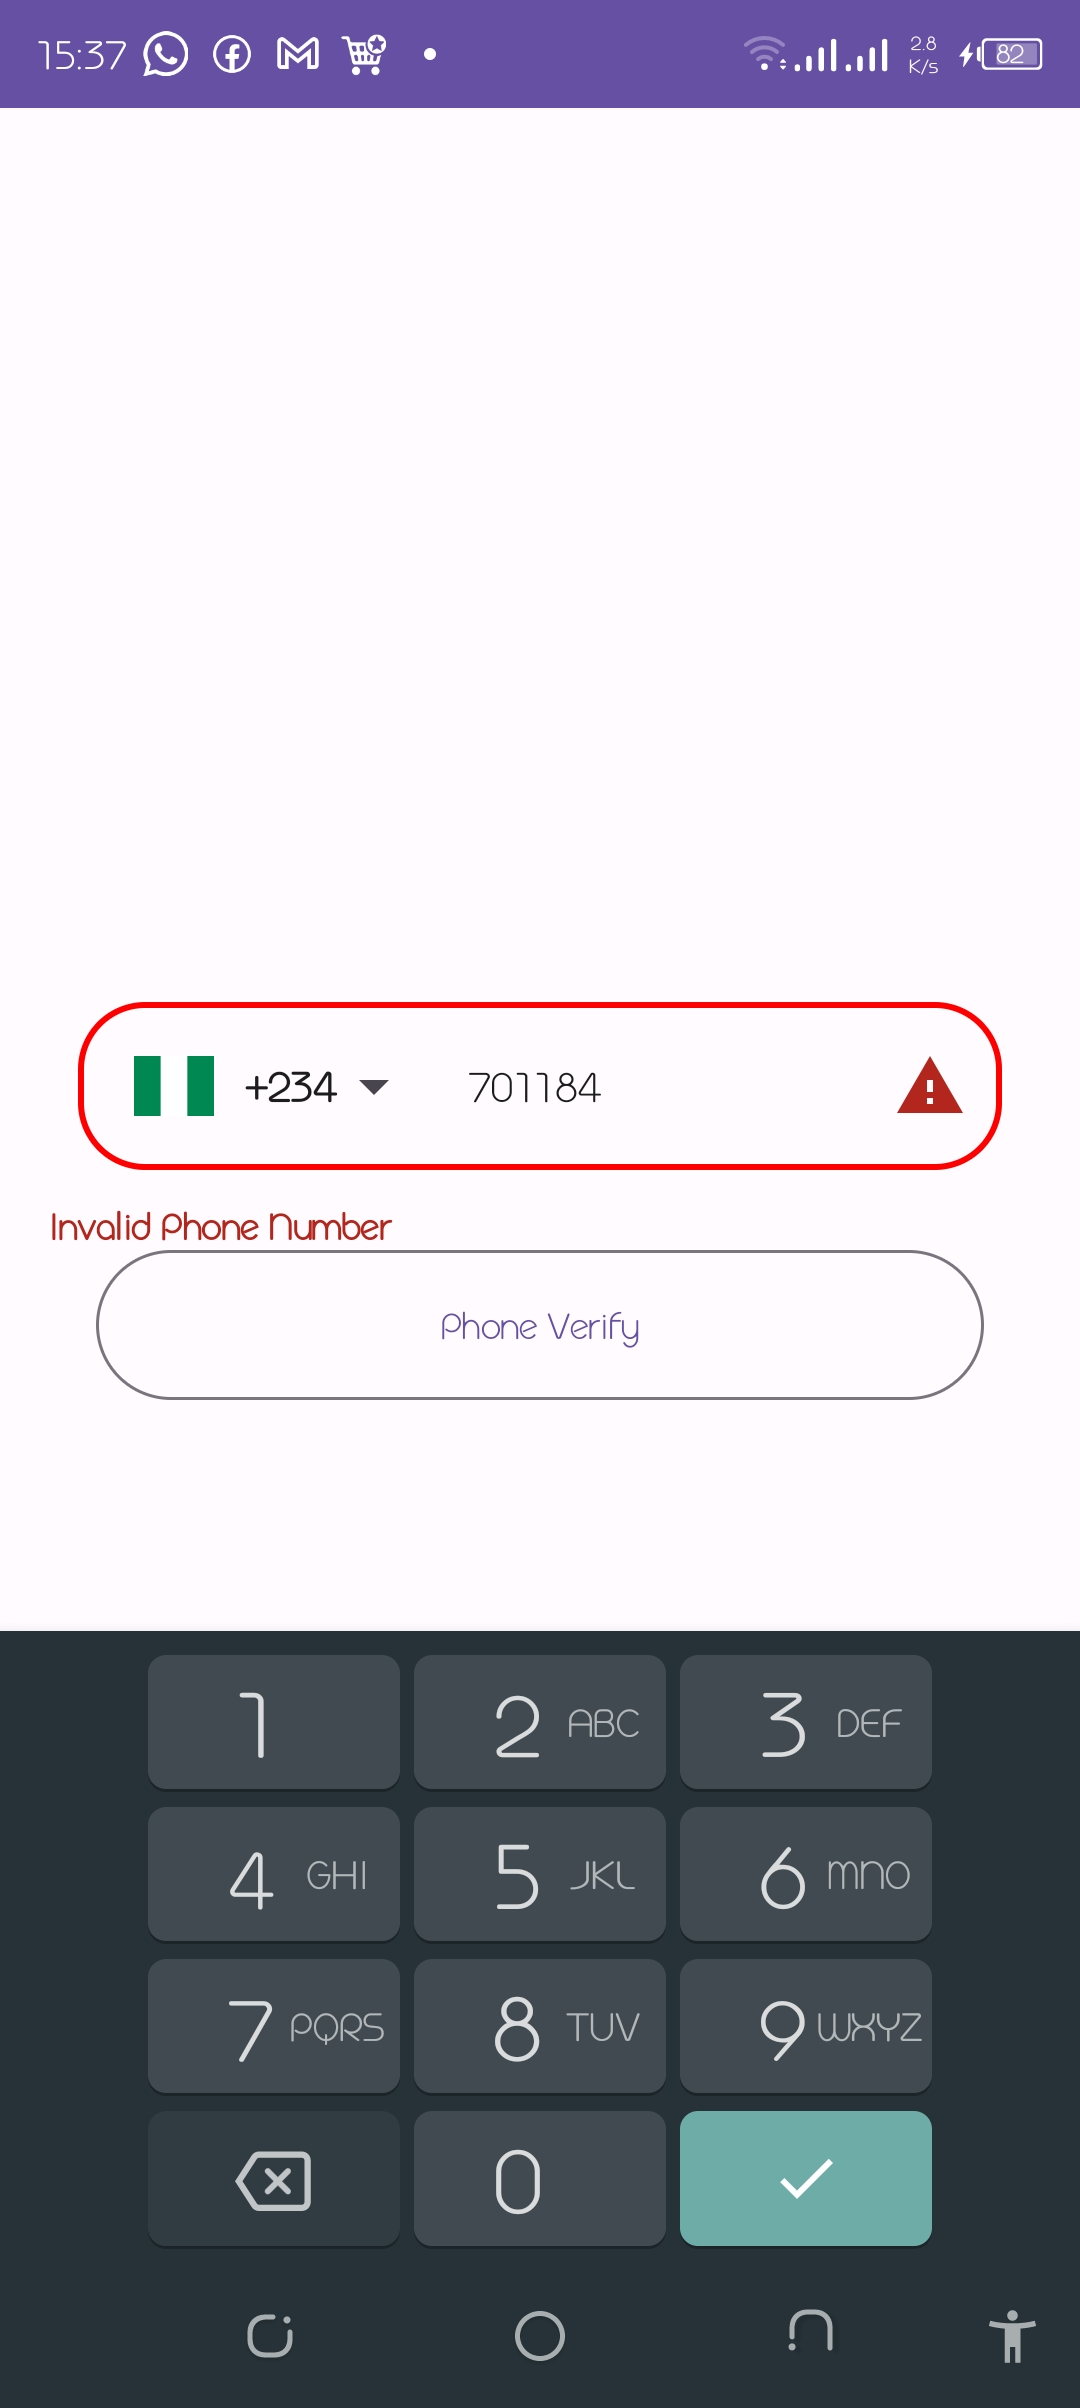
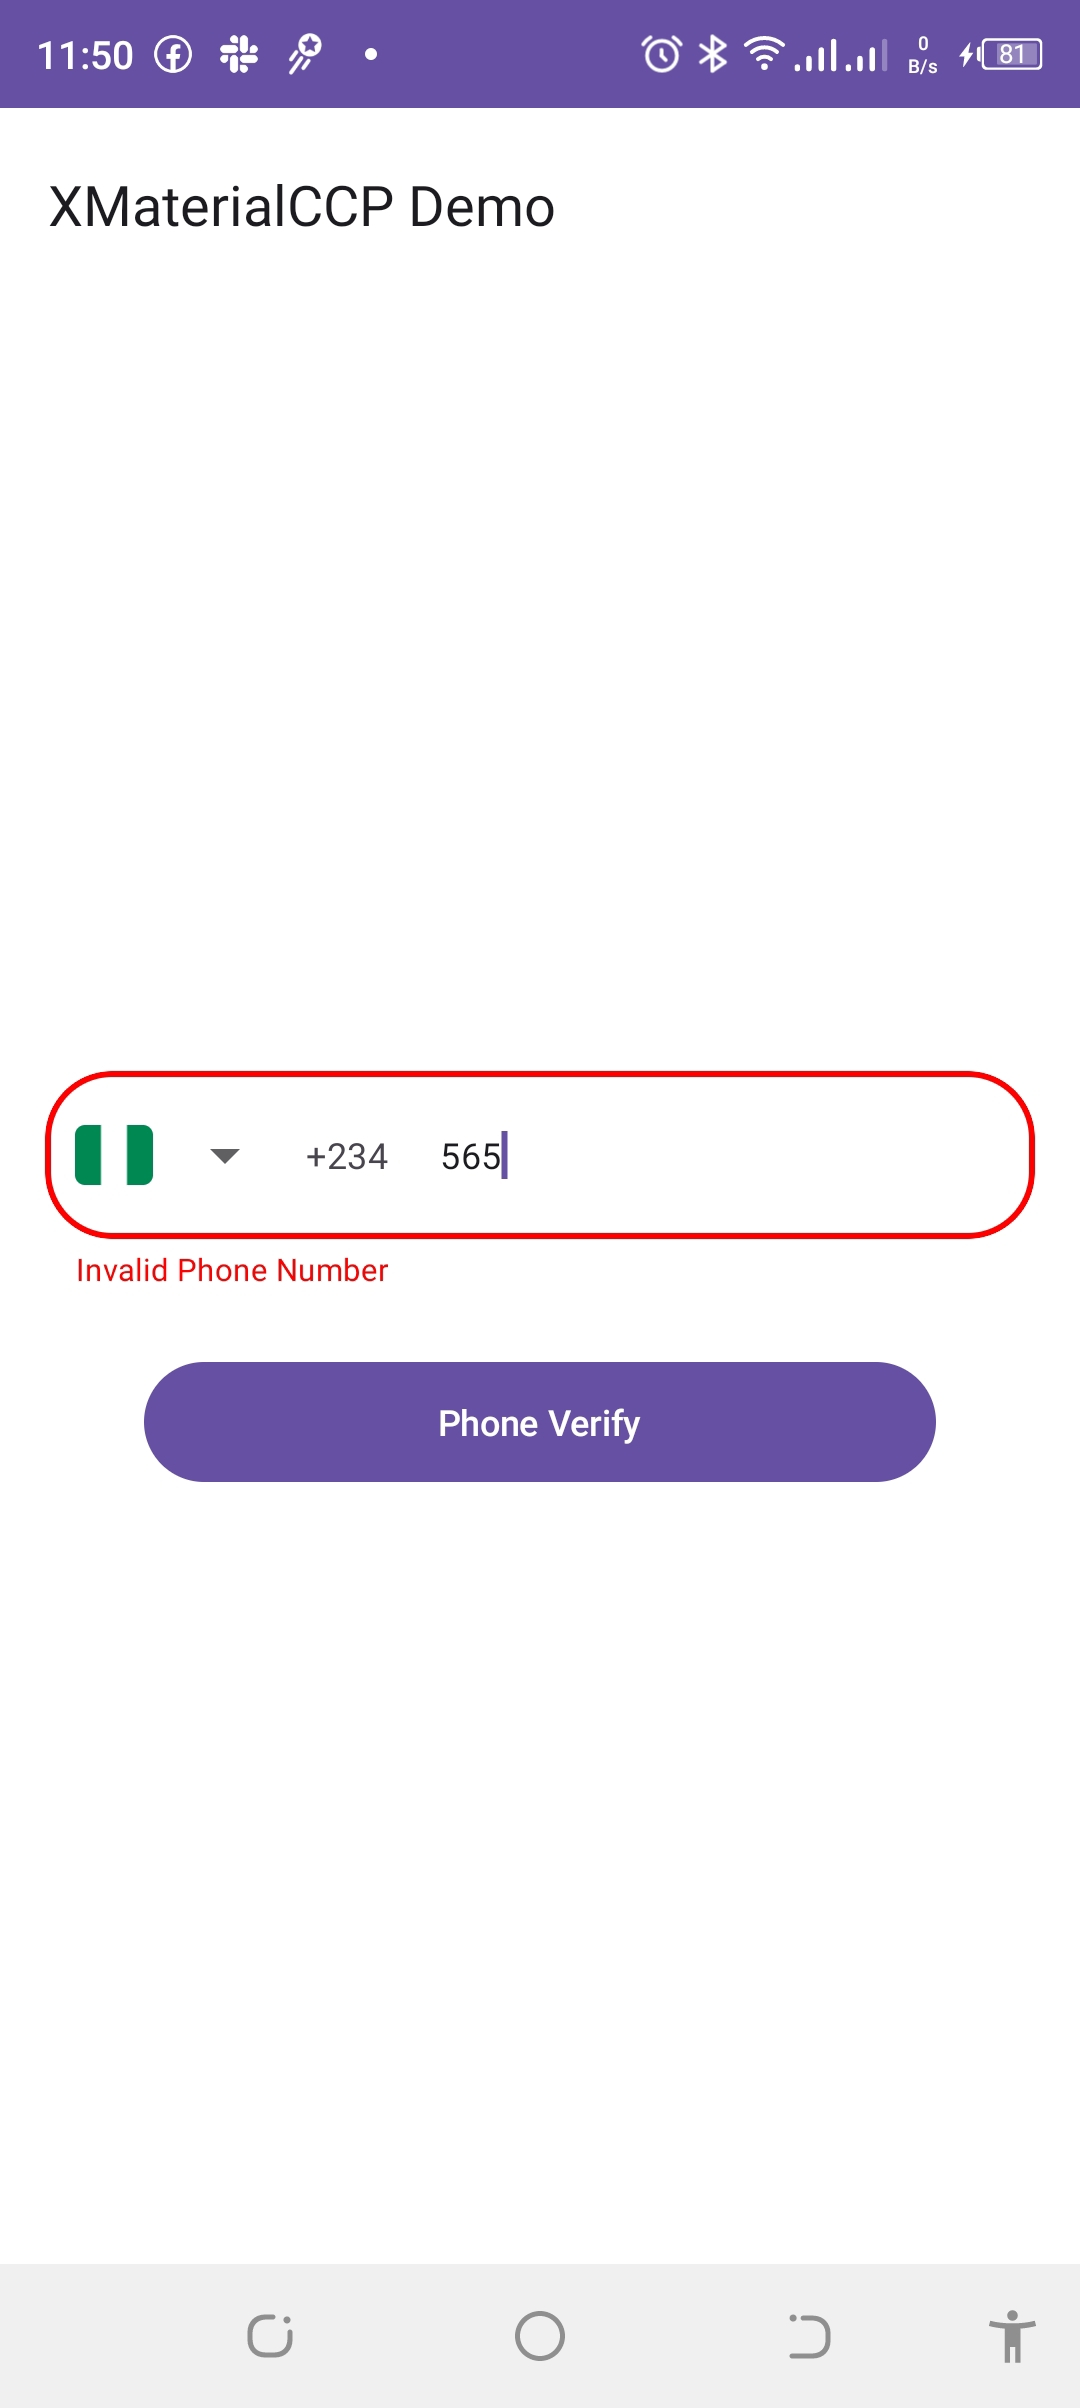
nin3

diff --git a/app/src/main/java/com/simon/materialCCPExample/MainActivity.kt b/app/src/main/java/com/simon/materialCCPExample/MainActivity.kt
@@ -3,15 +3,19 @@ package com.simon.materialCCPExample
 import android.os.Bundle
 import androidx.activity.ComponentActivity
 import androidx.activity.compose.setContent
+import androidx.compose.foundation.background
 import androidx.compose.foundation.layout.*
 import androidx.compose.foundation.rememberScrollState
 import androidx.compose.foundation.shape.RoundedCornerShape
 import androidx.compose.foundation.verticalScroll
 import androidx.compose.material3.Button
+import androidx.compose.material3.ExperimentalMaterial3Api
 import androidx.compose.material3.MaterialTheme
 import androidx.compose.material3.OutlinedButton
+import androidx.compose.material3.Scaffold
 import androidx.compose.material3.Surface
 import androidx.compose.material3.Text
+import androidx.compose.material3.TopAppBar
 import androidx.compose.runtime.*
 import androidx.compose.runtime.saveable.rememberSaveable
 import androidx.compose.ui.Alignment
@@ -31,16 +35,27 @@ import com.simon.xmaterialccp.data.utils.getLibCountries
 
 
 class MainActivity : ComponentActivity() {
+    @OptIn(ExperimentalMaterial3Api::class)
     override fun onCreate(savedInstanceState: Bundle?) {
         super.onCreate(savedInstanceState)
         setContent {
             MaterialCCPExampleTheme {
                 // A surface container using the 'background' color from the theme
-                Surface(
-                    modifier = Modifier.fillMaxSize(),
-                    color = MaterialTheme.colorScheme.background
+                Scaffold(
+                    modifier = Modifier
+                        .fillMaxSize()
+                        .background(Color.White),
+                    topBar = {
+                        TopAppBar(title = { Text(text = "XMaterialCCP Demo") })
+                    }
                 ) {
-                    SelectCountryBody()
+                    SelectCountryBody(
+                        Modifier
+                            .padding(top = it.calculateTopPadding())
+                            .fillMaxSize()
+                            .padding(15.dp)
+                            .verticalScroll(rememberScrollState())
+                    )
                 }
             }
         }
@@ -48,11 +63,9 @@ class MainActivity : ComponentActivity() {
 }
 
 @Composable
-fun SelectCountryBody() {
+fun SelectCountryBody(modifier: Modifier) {
     Column(
-        modifier = Modifier
-            .verticalScroll(rememberScrollState())
-            .fillMaxSize(),
+        modifier = modifier,
         verticalArrangement = Arrangement.Center,
         horizontalAlignment = Alignment.CenterHorizontally
     ) {
@@ -69,83 +82,68 @@ fun SelectCountryWithCountryCode() {
     val phoneNumber = rememberSaveable { mutableStateOf("") }
     var defaultLang by rememberSaveable { mutableStateOf(getDefaultLangCode(context)) }
     var isValidPhone by remember { mutableStateOf(true) }
-    Column(
-        modifier = Modifier.padding(16.dp)
+
+    MaterialCountryCodePicker(
+        pickedCountry = {
+            phoneCode = it.countryPhoneCode
+            defaultLang = it.countryCode
+        },
+        defaultCountry = getLibCountries().single { it.countryCode == defaultLang },
+        error = !isValidPhone,
+        text = phoneNumber.value,
+        onValueChange = { phoneNumber.value = it },
+        searchFieldPlaceHolderTextStyle = MaterialTheme.typography.bodyMedium,
+        searchFieldTextStyle = MaterialTheme.typography.bodyMedium,
+        phonenumbertextstyle = MaterialTheme.typography.bodyMedium,
+        countrytextstyle = MaterialTheme.typography.bodyMedium,
+        countrycodetextstyle = MaterialTheme.typography.bodyMedium,
+        showErrorText = true,
+        showCountryCodeInDIalog = true,
+        showDropDownAfterFlag = true,
+        textFieldShapeCornerRadiusInPercentage = 40,
+        searchFieldShapeCornerRadiusInPercentage = 40,
+        appbartitleStyle = MaterialTheme.typography.titleLarge,
+        countryItemBgShape = RoundedCornerShape(5.dp),
+        showCountryFlag = true,
+        showCountryCode = true,
+        flagShape = RoundedCornerShape(10f),
+        isEnabled = true,
+        showErrorIcon = false,
+        colors = ccpDefaultColors(
+            primaryColor = MaterialTheme.colorScheme.primary,
+            errorColor = MaterialTheme.colorScheme.error,
+            backgroundColor = MaterialTheme.colorScheme.background,
+            surfaceColor = MaterialTheme.colorScheme.surface,
+            outlineColor = MaterialTheme.colorScheme.outline,
+            disabledOutlineColor = MaterialTheme.colorScheme.outline.copy(0.1f),
+            unfocusedOutlineColor = MaterialTheme.colorScheme.onBackground.copy(0.3f),
+            textColor = MaterialTheme.colorScheme.onBackground.copy(0.7f),
+            cursorColor = MaterialTheme.colorScheme.primary,
+            topAppBarColor = MaterialTheme.colorScheme.surface,
+            countryItemBgColor = MaterialTheme.colorScheme.surface,
+            searchFieldBgColor = MaterialTheme.colorScheme.surface,
+            dialogNavIconColor = MaterialTheme.colorScheme.onBackground.copy(0.7f),
+            dropDownIconTint = MaterialTheme.colorScheme.onBackground.copy(0.7f)
+
+        ),
+        errorTextStyle = MaterialTheme.typography.bodySmall,
+        errorModifier = Modifier.padding(top = 3.dp, start = 10.dp)
+    )
+
+    val fullPhoneNumber = "$phoneCode${phoneNumber.value}"
+    val checkPhoneNumber = checkPhoneNumber(
+        phone = phoneNumber.value,
+        fullPhoneNumber = fullPhoneNumber,
+        countryCode = defaultLang
+    )
+    Spacer(modifier = Modifier.height(20.dp))
+    Button(
+        onClick = {
+            isValidPhone = checkPhoneNumber
+        },
+        modifier = Modifier
+            .fillMaxWidth(0.8f)
     ) {
-
-        MaterialCountryCodePicker(
-            pickedCountry = {
-                phoneCode = it.countryPhoneCode
-                defaultLang = it.countryCode
-            },
-            defaultCountry = getLibCountries().single { it.countryCode == defaultLang },
-            error = !isValidPhone,
-            text = phoneNumber.value,
-            onValueChange = { phoneNumber.value = it },
-            searchFieldPlaceHolderTextStyle = MaterialTheme.typography.bodyMedium,
-            searchFieldTextStyle = MaterialTheme.typography.bodyMedium,
-            phonenumbertextstyle = MaterialTheme.typography.bodyMedium,
-            countrytextstyle = MaterialTheme.typography.bodyMedium,
-            countrycodetextstyle = MaterialTheme.typography.bodyMedium,
-            showErrorText = true,
-            showCountryCodeInDIalog = true,
-            showDropDownAfterFlag = true,
-            textFieldShapeCornerRadiusInPercentage = 40,
-            searchFieldShapeCornerRadiusInPercentage = 40,
-            appbartitleStyle = MaterialTheme.typography.titleLarge,
-            countryItemBgShape = RoundedCornerShape(5.dp),
-            showCountryFlag = true,
-            showCountryCode = true,
-            flagShape = RoundedCornerShape(10f),
-            isEnabled = true,
-            showErrorIcon = false,
-            colors = ccpDefaultColors(
-                primaryColor = MaterialTheme.colorScheme.primary,
-                errorColor = MaterialTheme.colorScheme.error,
-                backgroundColor = MaterialTheme.colorScheme.background,
-                surfaceColor = MaterialTheme.colorScheme.surface,
-                outlineColor = MaterialTheme.colorScheme.outline,
-                disabledOutlineColor = MaterialTheme.colorScheme.outline.copy(0.1f),
-                unfocusedOutlineColor = MaterialTheme.colorScheme.onBackground.copy(0.3f),
-                textColor = MaterialTheme.colorScheme.onBackground.copy(0.7f),
-                cursorColor = MaterialTheme.colorScheme.primary,
-                topAppBarColor = MaterialTheme.colorScheme.surface,
-                countryItemBgColor = MaterialTheme.colorScheme.surface,
-                searchFieldBgColor = MaterialTheme.colorScheme.surface,
-                dialogNavIconColor = MaterialTheme.colorScheme.onBackground.copy(0.7f),
-                dropDownIconTint = MaterialTheme.colorScheme.onBackground.copy(0.7f)
-
-            )
-        )
-
-        val fullPhoneNumber = "$phoneCode${phoneNumber.value}"
-        val checkPhoneNumber = checkPhoneNumber(
-            phone = phoneNumber.value,
-            fullPhoneNumber = fullPhoneNumber,
-            countryCode = defaultLang
-        )
-        Button(
-            onClick = {
-                isValidPhone = checkPhoneNumber
-            },
-            modifier = Modifier
-                .fillMaxWidth()
-        ) {
-            Text(text = "Phone Verify")
-        }
-    }
-}
-
-
-@Composable
-fun Greeting(name: String) {
-    Text(text = "Hello $name!")
-}
-
-@Preview(showBackground = true)
-@Composable
-fun DefaultPreview() {
-    MaterialCCPExampleTheme {
-        Greeting("Android")
+        Text(text = "Phone Verify")
     }
 }

diff --git a/xmaterialccp/src/main/java/com/simon/xmaterialccp/component/MaterialCountryCodePicker.kt b/xmaterialccp/src/main/java/com/simon/xmaterialccp/component/MaterialCountryCodePicker.kt
@@ -65,6 +65,8 @@ import com.simon.xmaterialccp.data.CCPColors
  * @param flagShape to customized the shape of the flag
  * @param showErrorIcon whether to show the error icon
  * @param errorIcon the drawable resource file to use as error icon
+ * @param errorText the text to show when an invalid number is entered
+ * @param errorModifier modifier applied to the error text
  * @param colors the colors of the picker, customized the look and feel of the picker
  */
 @OptIn(ExperimentalMaterial3Api::class, ExperimentalComposeUiApi::class)
@@ -102,6 +104,8 @@ fun MaterialCountryCodePicker(
     @DrawableRes errorIcon:Int?=null ,
     @DrawableRes dropDownIcon:Int?=null ,
     showErrorIcon:Boolean=true,
+    errorText:String = stringResource(id = R.string.invalid_number),
+    errorModifier:Modifier = Modifier,
     colors: CCPColors
 ) {
     var textFieldValueState by remember { mutableStateOf(TextFieldValue(text = text)) }
@@ -202,11 +206,10 @@ fun MaterialCountryCodePicker(
         }
         if (error && showErrorText) {
             Text(
-                text = stringResource(id = R.string.invalid_number),
+                text = errorText,
                 color = colors.errorColor,
                 style = errorTextStyle,
-                fontWeight = FontWeight.Bold,
-                modifier = Modifier.padding(top = 0.8.dp, start = 4.dp)
+                modifier = errorModifier
             )
         }
     }

diff --git a/app/src/main/java/com/simon/materialCCPExample/ui/theme/Theme.kt b/app/src/main/java/com/simon/materialCCPExample/ui/theme/Theme.kt
@@ -27,7 +27,7 @@ private val LightColorScheme = lightColorScheme(
     secondary = PurpleGrey40,
     tertiary = Pink40,
     surface = Color.White,
-    background = Color.Gray,
+    background = Color.White,
     outline = PurpleGrey40.copy(0.5f),
     error = Color.Red
     /* Other default colors to override

diff --git a/README.md b/README.md
@@ -5,9 +5,11 @@ Jetpack Compose Material Country Code Picker
 <a href="https://www.linkedin.com/mwlite/in/tule-simon-67a202157">Chat me up on Linkedln</a>
 
 ## Latest Version
-The latest version is <a href="https://github.com/TuleSimon/xMaterialccp/releases/tag/v1.21">v1.21</a>
+The latest version is <a href="https://github.com/TuleSimon/xMaterialccp/releases/tag/v1.22">v1.22</a>
 
-## WHAT IS NEW (v1.21)
+## WHAT IS NEW (v1.22)
+* added error modifier to customize error text
+* added errorText to pass your own dynamic error text
 * fix indian phone number hint
 * update compose version, and android kotlin version
 * allow custom error icon
